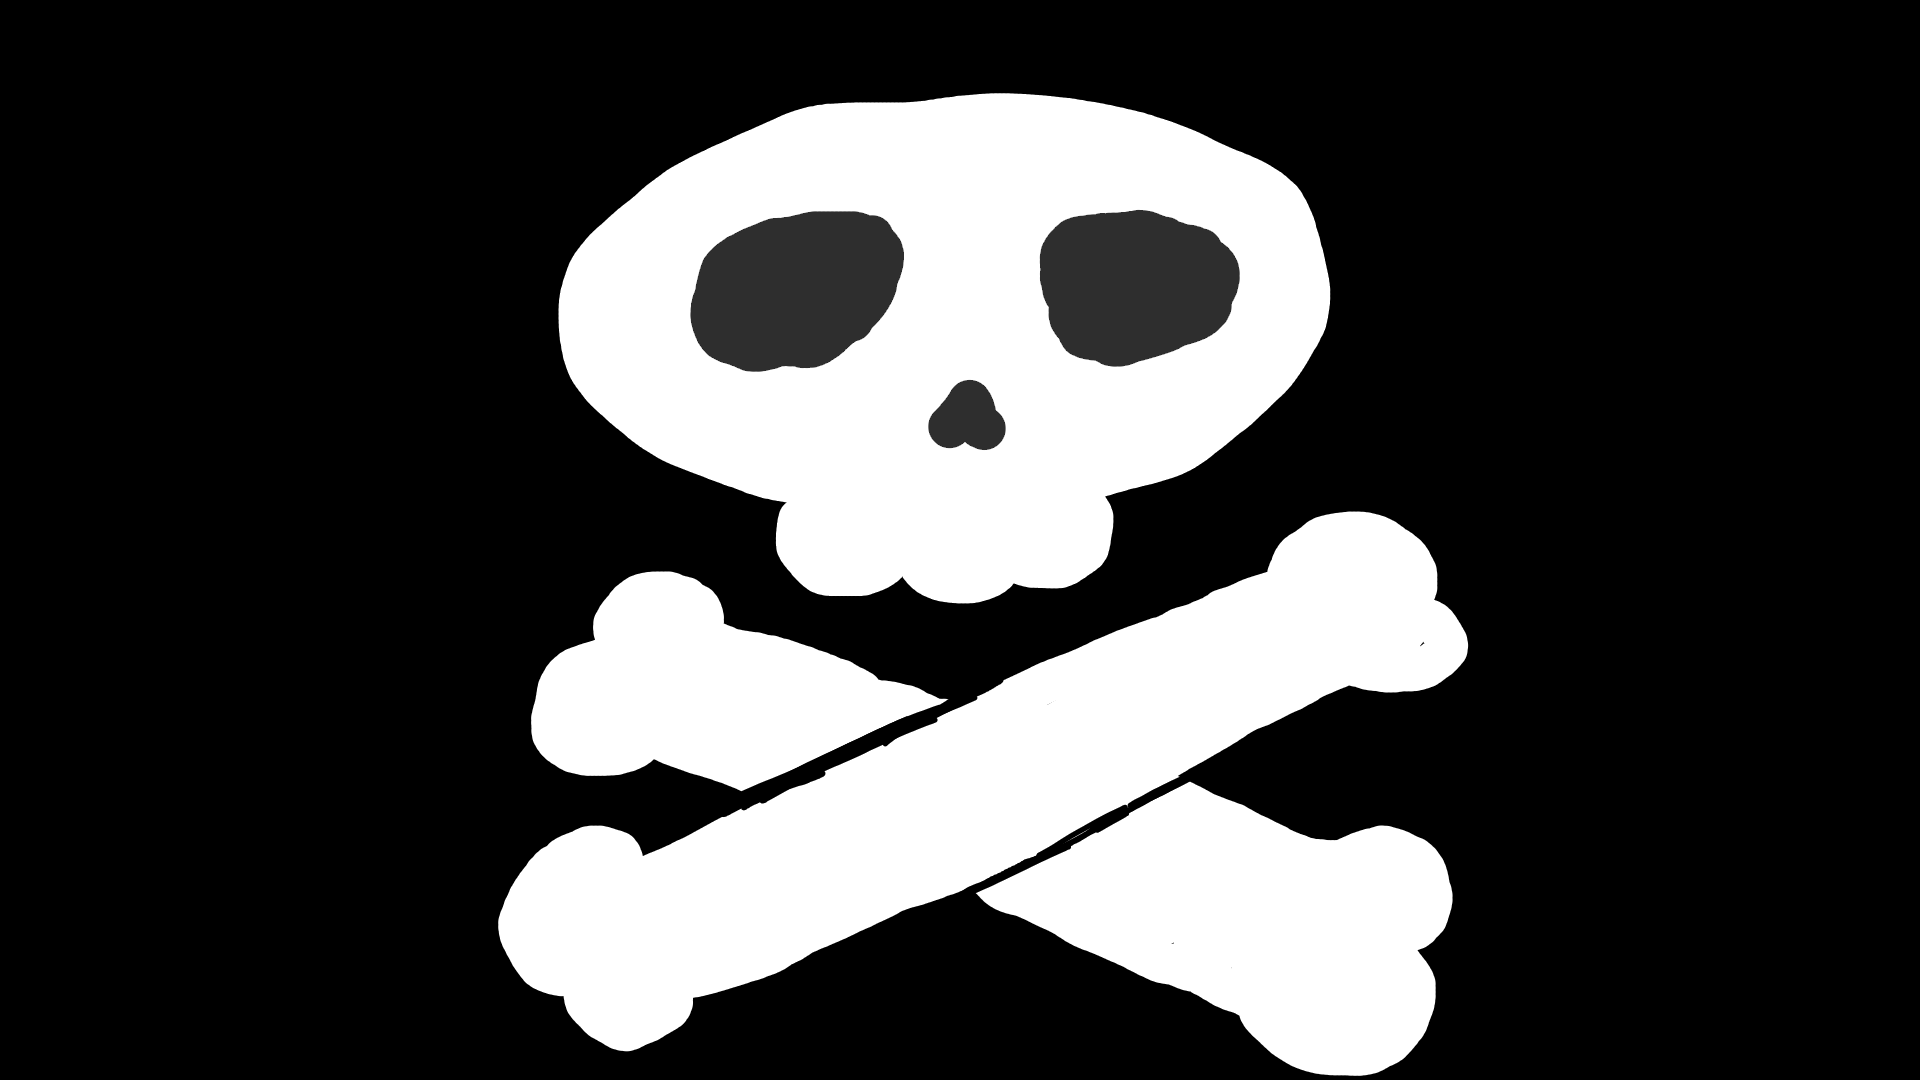
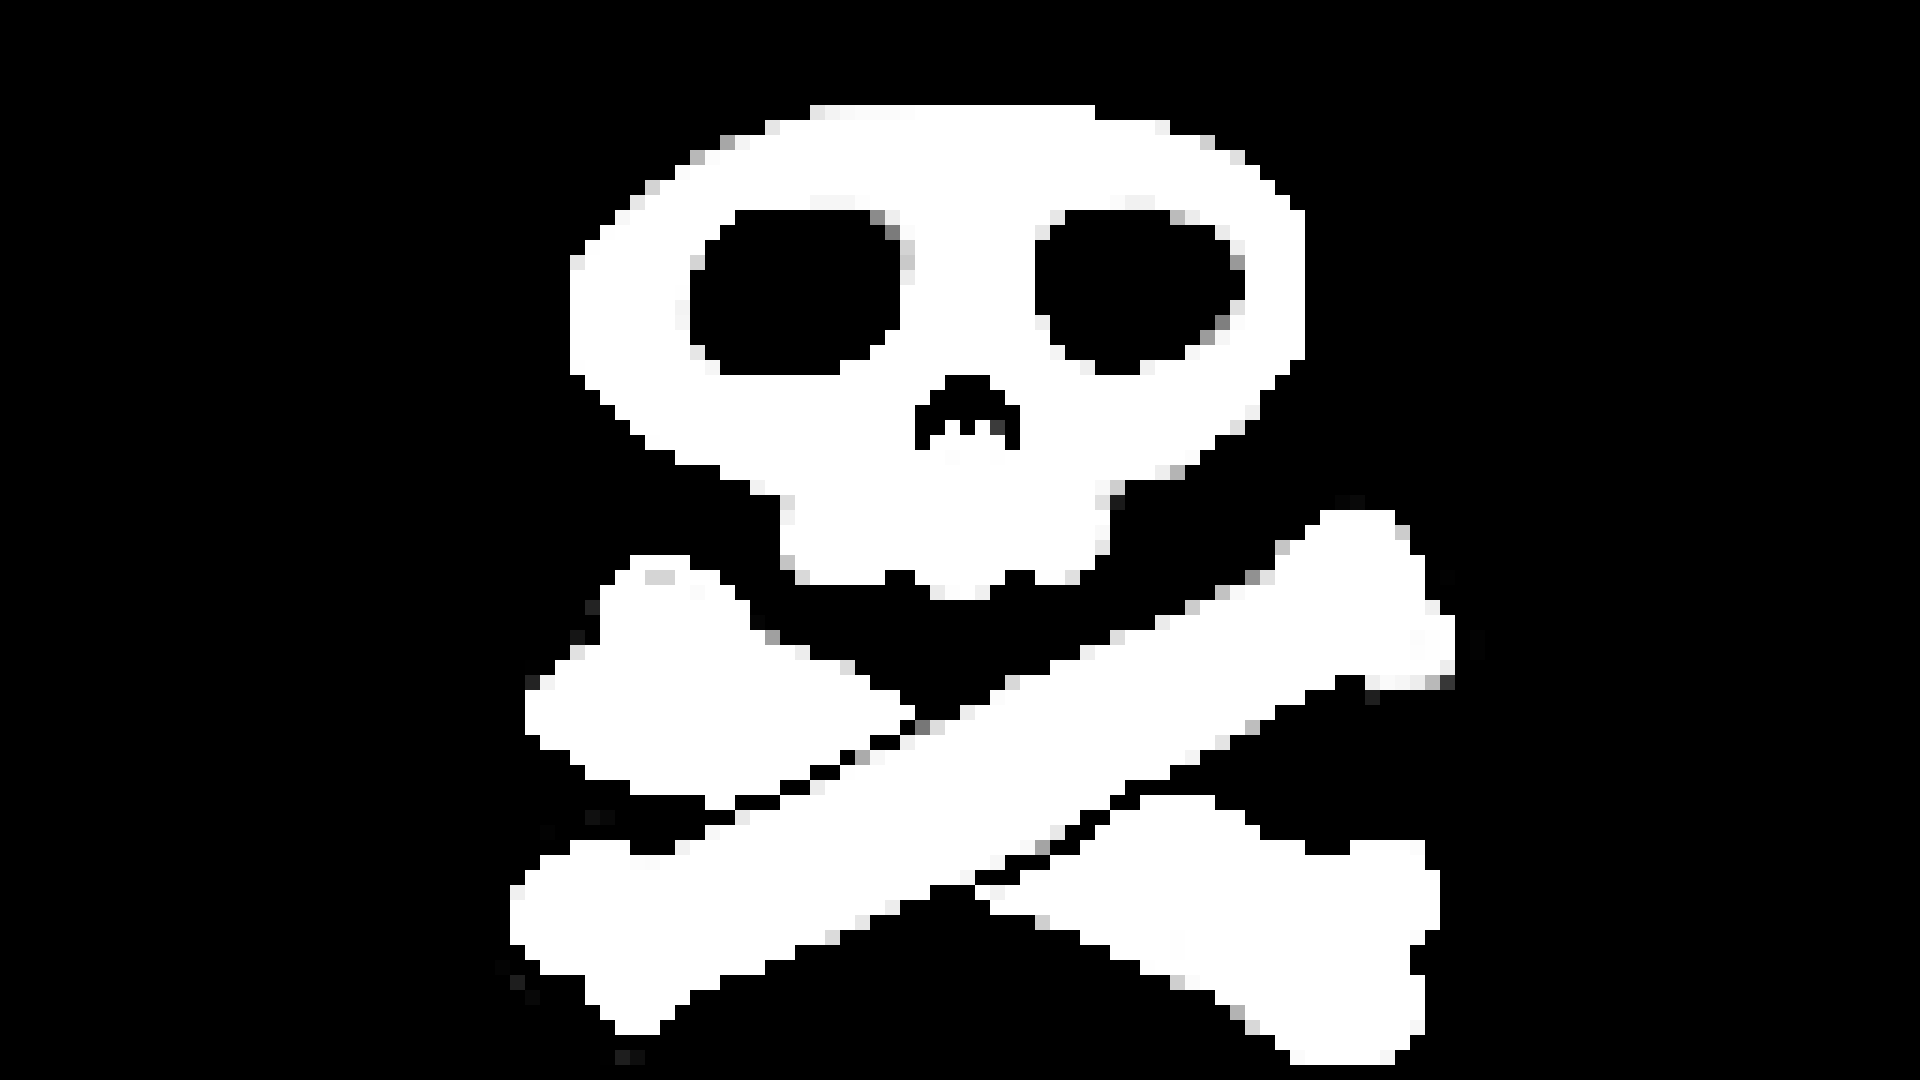
tela opções com volume e resolução

diff --git a/menu.py b/menu.py
@@ -1,13 +1,13 @@
 import pygame
 import sys
 import os
-from config import folderPath, bgWidth, bgHeight
+import config
 
 class MenuPrincipal():
     def __init__(self, tela:pygame.surface):
-        self.folderPath = folderPath
+        self.folderPath = config.folderPath
         self.fonte = pygame.font.SysFont("Arial", 48)
-        self.tamanho = (bgWidth,bgHeight)
+        self.tamanho = (config.bgWidth,config.bgHeight)
         self.bg = pygame.image.load(os.path.join(self.folderPath,"images","backgrounds","bgIP.png")).convert()
         self.bg = pygame.transform.scale(self.bg, self.tamanho)
         self.opcoes = ["Jogar", "Tutorial", "Opções", "Sair", "Creditos"]
@@ -26,13 +26,13 @@ class MenuPrincipal():
             tela.blit(renderedText, (100,100+i*60))
         eq_rend = self.fonte.render(self.dadosGrupo["equipe"], True, (0, 0, 0))
         #membros_rend = self.fonte.render(self.dadosGrupo["membros"], True, (255, 255, 255))
-        tela.blit(eq_rend, (bgWidth-250, bgHeight-300))
+        tela.blit(eq_rend, (config.bgWidth-250, config.bgHeight-300))
         for n in range(len(self.dadosGrupo["membros"])):
             memb_rend = self.fonte.render(self.dadosGrupo["membros"][n], True, (0, 0, 0))
             if n % 2 == 0:
-                tela.blit(memb_rend, (bgWidth-300, bgHeight - 220 + 35*n))
+                tela.blit(memb_rend, (config.bgWidth-300, config.bgHeight - 220 + 35*n))
             else:
-                tela.blit(memb_rend, (bgWidth-150, bgHeight - 220 + 35*(n-1)))
+                tela.blit(memb_rend, (config.bgWidth-150, config.bgHeight - 220 + 35*(n-1)))
 
     
     def eventos(self, event):
@@ -86,12 +86,12 @@ class menuPause():
                 self.opcaoAtual = (self.opcaoAtual - 1)%3
             elif event.key == pygame.K_RETURN:
                 return self.opcoes[self.opcaoAtual]
-            return None
+        return None
 
 class telaMorte(MenuPrincipal):
     def __init__(self, tela:pygame.surface):
         super().__init__(tela)
-        self.folderPath = folderPath
+        self.folderPath = config.folderPath
         self.bg = pygame.image.load(os.path.join(self.folderPath,"images","backgrounds","telaMorteIP.png")).convert()
         self.bg = pygame.transform.scale(self.bg, self.tamanho)
         self.opcoes = ["Reiniciar", "Menu Principal", "Sair"]
@@ -116,9 +116,9 @@ class telaMorte(MenuPrincipal):
 
 class Creditos():
     def __init__(self, tela:pygame.surface):
-        self.folderPath = folderPath
+        self.folderPath = config.folderPath
         self.fonte = pygame.font.SysFont("Arial", 48)
-        self.tamanho = (bgWidth,bgHeight)
+        self.tamanho = (config.bgWidth,config.bgHeight)
         self.bg = pygame.image.load(os.path.join(self.folderPath,"images", "backgrounds","bgCreditos.png")).convert()
         self.bg = pygame.transform.scale(self.bg, self.tamanho)
         self.opcoes = ["Voltar"]
@@ -189,9 +189,9 @@ class menuFimTutorial():
 
 class menuModos():
     def __init__(self, tela:pygame.surface):
-        self.folderPath = folderPath
+        self.folderPath = config.folderPath
         self.fonte = pygame.font.SysFont("Arial", 48)
-        self.tamanho = (bgWidth,bgHeight)
+        self.tamanho = (config.bgWidth,config.bgHeight)
         self.bg = pygame.image.load(os.path.join(self.folderPath,"images","backgrounds","bgIP.png")).convert()
         self.bg = pygame.transform.scale(self.bg, self.tamanho)
         self.opcoes = ["Infinito", "Boss", "Voltar"]
@@ -210,13 +210,13 @@ class menuModos():
             tela.blit(renderedText, (100,100+i*60))
         eq_rend = self.fonte.render(self.dadosGrupo["equipe"], True, (0, 0, 0))
         #membros_rend = self.fonte.render(self.dadosGrupo["membros"], True, (255, 255, 255))
-        tela.blit(eq_rend, (bgWidth-250, bgHeight-300))
+        tela.blit(eq_rend, (config.bgWidth-250, config.bgHeight-300))
         for n in range(len(self.dadosGrupo["membros"])):
             memb_rend = self.fonte.render(self.dadosGrupo["membros"][n], True, (0, 0, 0))
             if n % 2 == 0:
-                tela.blit(memb_rend, (bgWidth-300, bgHeight - 220 + 35*n))
+                tela.blit(memb_rend, (config.bgWidth-300, config.bgHeight - 220 + 35*n))
             else:
-                tela.blit(memb_rend, (bgWidth-150, bgHeight - 220 + 35*(n-1)))
+                tela.blit(memb_rend, (config.bgWidth-150, config.bgHeight - 220 + 35*(n-1)))
 
     
     def eventos(self, event):
@@ -242,9 +242,9 @@ class menuModos():
 
 class menuDificuldade():
     def __init__(self, tela:pygame.surface):
-        self.folderPath = folderPath
+        self.folderPath = config.folderPath
         self.fonte = pygame.font.SysFont("Arial", 48)
-        self.tamanho = (bgWidth,bgHeight)
+        self.tamanho = (config.bgWidth,config.bgHeight)
         self.bg = pygame.image.load(os.path.join(self.folderPath,"images","backgrounds","bgIP.png")).convert()
         self.bg = pygame.transform.scale(self.bg, self.tamanho)
         self.opcoes = ["Fácil", "Médio", "Difícil", "Impossível"]
@@ -263,15 +263,14 @@ class menuDificuldade():
             tela.blit(renderedText, (100,100+i*60))
         eq_rend = self.fonte.render(self.dadosGrupo["equipe"], True, (0, 0, 0))
         #membros_rend = self.fonte.render(self.dadosGrupo["membros"], True, (255, 255, 255))
-        tela.blit(eq_rend, (bgWidth-250, bgHeight-300))
+        tela.blit(eq_rend, (config.bgWidth-250, config.bgHeight-300))
         for n in range(len(self.dadosGrupo["membros"])):
             memb_rend = self.fonte.render(self.dadosGrupo["membros"][n], True, (0, 0, 0))
             if n % 2 == 0:
-                tela.blit(memb_rend, (bgWidth-300, bgHeight - 220 + 35*n))
+                tela.blit(memb_rend, (config.bgWidth-300, config.bgHeight - 220 + 35*n))
             else:
-                tela.blit(memb_rend, (bgWidth-150, bgHeight - 220 + 35*(n-1)))
+                tela.blit(memb_rend, (config.bgWidth-150, config.bgHeight - 220 + 35*(n-1)))
 
-    
     def eventos(self, event):
         #print(event)
             #print(evento)
@@ -285,6 +284,56 @@ class menuDificuldade():
                 self.opcaoSelecionada = (self.opcaoSelecionada-1)%len(self.opcoes)
             elif event.key==pygame.K_s:
                 self.opcaoSelecionada = (self.opcaoSelecionada+1)%len(self.opcoes)
+            elif event.key==pygame.K_RETURN:
+                return self.opcoes[self.opcaoSelecionada]
+        print(self.opcaoSelecionada)
+        return None
+    
+class menuOpcoes():
+    def __init__(self, tela:pygame.surface):
+        self.folderPath = config.folderPath
+        self.fonte = pygame.font.SysFont("Arial", 48)
+        self.tamanho = (config.bgWidth,config.bgHeight)
+        self.bg = pygame.image.load(os.path.join(self.folderPath,"images","backgrounds","bgCreditos.png")).convert()
+        self.bg = pygame.transform.scale(self.bg, self.tamanho)
+        self.opcoes = ["Volume","100","80","60","40","20","0","Resolução","Tela Cheia","1920x1080","960x540","Voltar"]
+        self.opcaoSelecionada = 0
+    
+    def draw(self, tela):
+        tela.blit(self.bg, (0,0))
+        cor=(255,255,255)
+        for i, text in enumerate(self.opcoes):
+            if i == self.opcaoSelecionada:
+                cor = (254, 56, 103)
+            else:
+                cor = (255,255,255)
+            renderedText = self.fonte.render(text, True, cor)
+            if i<7:    
+                tela.blit(renderedText, (100,100+i*60))
+            elif text=="Voltar":
+                tela.blit(renderedText, (config.bgWidth-renderedText.get_size()[0]-100, config.bgHeight-100))
+            else:
+                tela.blit(renderedText, (config.bgWidth-renderedText.get_size()[0]-100, 100+(i-7)*60))
+    
+    def eventos(self, event):
+        #print(event)
+            #print(evento)
+        print(event)
+        if event.type == pygame.QUIT:
+            return "sair"
+        elif event.type == pygame.KEYDOWN:
+            if event.key==pygame.K_q:
+                return "sair"
+            elif event.key==pygame.K_w:
+                self.opcaoSelecionada = (self.opcaoSelecionada-1)%len(self.opcoes)
+            elif event.key==pygame.K_a:
+                if self.opcaoSelecionada>=7:
+                    self.opcaoSelecionada = 0
+            elif event.key==pygame.K_s:
+                self.opcaoSelecionada = (self.opcaoSelecionada+1)%len(self.opcoes)
+            elif event.key==pygame.K_d:
+                if self.opcaoSelecionada<7:
+                    self.opcaoSelecionada = 8
             elif event.key==pygame.K_RETURN:
                 return self.opcoes[self.opcaoSelecionada]
         print(self.opcaoSelecionada)

diff --git a/mainCode.py b/mainCode.py
@@ -8,8 +8,9 @@ import random
 from itens import itemGeral, ParteEscudo, Quick_Shot, Moedas, Cura, Charge, Ima
 from time import perf_counter, sleep
 from loja import abrir_loja
-from menu import MenuPrincipal, menuPause, telaMorte, Creditos, menuFimTutorial, menuModos, menuDificuldade
+from menu import MenuPrincipal, menuPause, telaMorte, Creditos, menuFimTutorial, menuModos, menuDificuldade, menuOpcoes
 from config import folderPath, camera, bgWidth, bgHeight, telaSizePlaceholder, tela, fonte, fonte_grande, fps, fonte_media
+import config
 from funcoes import criarJogador, resetarVariaveis, sons
 
 #configs permanentes
@@ -101,6 +102,7 @@ creditos = Creditos(tela)
 fim_do_tutorial = menuFimTutorial(tela)
 escolher_modo = menuModos(tela)
 escolher_dificuldade = menuDificuldade(tela)
+menu_opcoes = menuOpcoes(tela)
 
 #temporizadores
 t_invencibilidade = 0
@@ -148,6 +150,7 @@ duracao_ima = 20
 boss_fight = 0
 pode_spawn_laser = 1
 while main:
+    print("estado",estadoDoJogo)
     #print("wave", wave_counter)
     #ouro, prata, shield, heal, bt, qs = 0, 0, 0, 0, 0, 0
     grupoGrupos = (grupoItem, grupoEscudo, grupoQuickShot, grupoBulletTime, grupoCura, grupoMoeda, grupoJogador, grupoRastro, grupoBala, grupoInimigo, grupoBullets, grupoLaser)
@@ -171,7 +174,6 @@ while main:
             selecao = menu_principal.eventos(event)
             if selecao=="Jogar":
                 estadoDoJogo="escolher modo"
-                
             elif selecao == "Tutorial":
                 estadoDoJogo = "jogando"
                 modo = "tutorial"
@@ -180,6 +182,9 @@ while main:
                 contador_de_teclas_mov, contador_de_teclas_espaco, contador_itens, fim_tutorial = 0, 0, 0, 0
             elif selecao=="Creditos":
                 estadoDoJogo="creditos"
+                sons(estadoDoJogo)
+            elif selecao=="Opções":
+                estadoDoJogo="Opções"
                 sons(estadoDoJogo)
             elif selecao=="Sair":
                 pygame.quit()
@@ -221,7 +226,7 @@ while main:
             selecao=creditos.eventos(event)
             if selecao=="Voltar":
                 estadoDoJogo="menu principal"
-                sons(menu_principal)
+                sons(estadoDoJogo)
         elif estadoDoJogo == "fim do tutorial":
             selecao = fim_do_tutorial.eventos(event)
             if selecao == "Menu principal":
@@ -264,7 +269,22 @@ while main:
                     wave_counter = 5
                 elif selecao == "Impossível":
                     wave_counter = 6
-
+        elif estadoDoJogo=="Opções":
+            sons(estadoDoJogo)
+            selecao = menu_opcoes.eventos(event)
+            if selecao in ["100","80","60","40","20","0"]:
+                config.volume=float(selecao)/100.0
+            elif selecao == "Tela Cheia":
+                config.bgWidth, config.bgHeight = pygame.display.get_desktop_sizes()[0]
+                config.tela = pygame.display.set_mode((config.bgWidth,config.bgHeight), pygame.RESIZABLE, display=0)
+            elif selecao in ["1920x1080","960x540"]:
+                tamanho = selecao.split("x")
+                config.bgWidth=int(tamanho[0])
+                config.bgHeight=int(tamanho[1])
+                config.tela = pygame.display.set_mode((config.bgWidth,config.bgHeight), pygame.RESIZABLE, display=0)
+            elif selecao == "Voltar":
+                estadoDoJogo="menu principal"
+                sons(estadoDoJogo)
         elif estadoDoJogo == "jogando":
             #pausar
             if event.type == pygame.KEYDOWN:
@@ -393,7 +413,7 @@ while main:
                 menu_pause.opcaoAtual = 0
             #opções (eventualmente)
             elif selecao == "Opções":
-                estadoDoJogo = "jogando" #modificar para criar um menu de opções dps
+                estadoDoJogo = "Opções" #modificar para criar um menu de opções dps
                 sons(estadoDoJogo)
             #sair
             elif selecao == "Sair":
@@ -413,7 +433,8 @@ while main:
         escolher_modo.draw(tela)
     elif estadoDoJogo == "escolher dificuldade":
         escolher_dificuldade.draw(tela)
-        
+    elif estadoDoJogo == "Opções":
+        menu_opcoes.draw(tela)
     elif estadoDoJogo=="jogando":
         deltaTime = clock.tick(60)/1000
         if deltaTime>1.0:

diff --git a/funcoes.py b/funcoes.py
@@ -13,7 +13,7 @@ balaJogador = pygame.mixer.Sound(os.path.join(config.folderPath,"sons","soundEff
 bala1Inimigo = pygame.mixer.Sound(os.path.join(config.folderPath,"sons","soundEffects","alienshoot1.ogg"))
 bala2Inimigo= pygame.mixer.Sound(os.path.join(config.folderPath,"sons","soundEffects","alienshoot2.ogg"))
 balaShotgunInimigo= pygame.mixer.Sound(os.path.join(config.folderPath,"sons","soundEffects","alienshoot3.ogg"))
-balaLaserInimigo= pygame.mixer.Sound(os.path.join(config.folderPath,"sons","soundEffects","alienshoot2.ogg"))
+balaLaserInimigo= pygame.mixer.Sound(os.path.join(config.folderPath,"sons","soundEffects","laserbeam.wav"))
 
 musicaIsPaused = False
 
@@ -48,6 +48,7 @@ def sons(evento):
     if evento=="jogando":
         if not config.musicaIsPaused:
             pygame.mixer.music.play(-1)
+            pygame.mixer.music.set_volume(config.volume)
         else:
             config.musicaIsPaused=False
             pygame.mixer.music.unpause()
@@ -58,13 +59,18 @@ def sons(evento):
     #    pygame.mixer.music.fadeout(200)
     
     if evento=="balaPlayer":
+        balaJogador.set_volume(config.volume)
         pygame.mixer.Sound.play(balaJogador)
     if evento=="balaInimigo":
         if random.randint(1,2)==1:
+            bala1Inimigo.set_volume(config.volume)
             pygame.mixer.Sound.play(bala1Inimigo)
         else:
+            bala2Inimigo.set_volume(config.volume)
             pygame.mixer.Sound.play(bala2Inimigo)
     if evento=="balaShotgunInimigo":
+        balaShotgunInimigo.set_volume(config.volume)
         pygame.mixer.Sound.play(balaShotgunInimigo)
     if evento=="laser":
+        balaLaserInimigo.set_volume(config.volume)
         pygame.mixer.Sound.play(balaLaserInimigo)

diff --git a/config.py b/config.py
@@ -10,11 +10,13 @@ bgHeight = pygame.display.Info().current_h
 bgWidth = pygame.display.Info().current_w
 #tamanhoTela:tuple = pygame.display.get_desktop_sizes()[0]
 telaSizePlaceholder = (bgWidth,bgHeight)
-tela = pygame.display.set_mode(telaSizePlaceholder)
+os.environ['SDL_VIDEO_CENTERED'] = '1'
+tela = pygame.display.set_mode(telaSizePlaceholder, pygame.RESIZABLE, display=0)
 fonte = pygame.font.SysFont("arial", 40, True, False)
 fonte_grande = pygame.font.SysFont("arial", 100, True, False)
 fonte_media = pygame.font.SysFont("arial", 65, True, False)
 fps=60
+volume = 1.0
 
 #configs de sons e musicas
 musicaIsPaused = False
